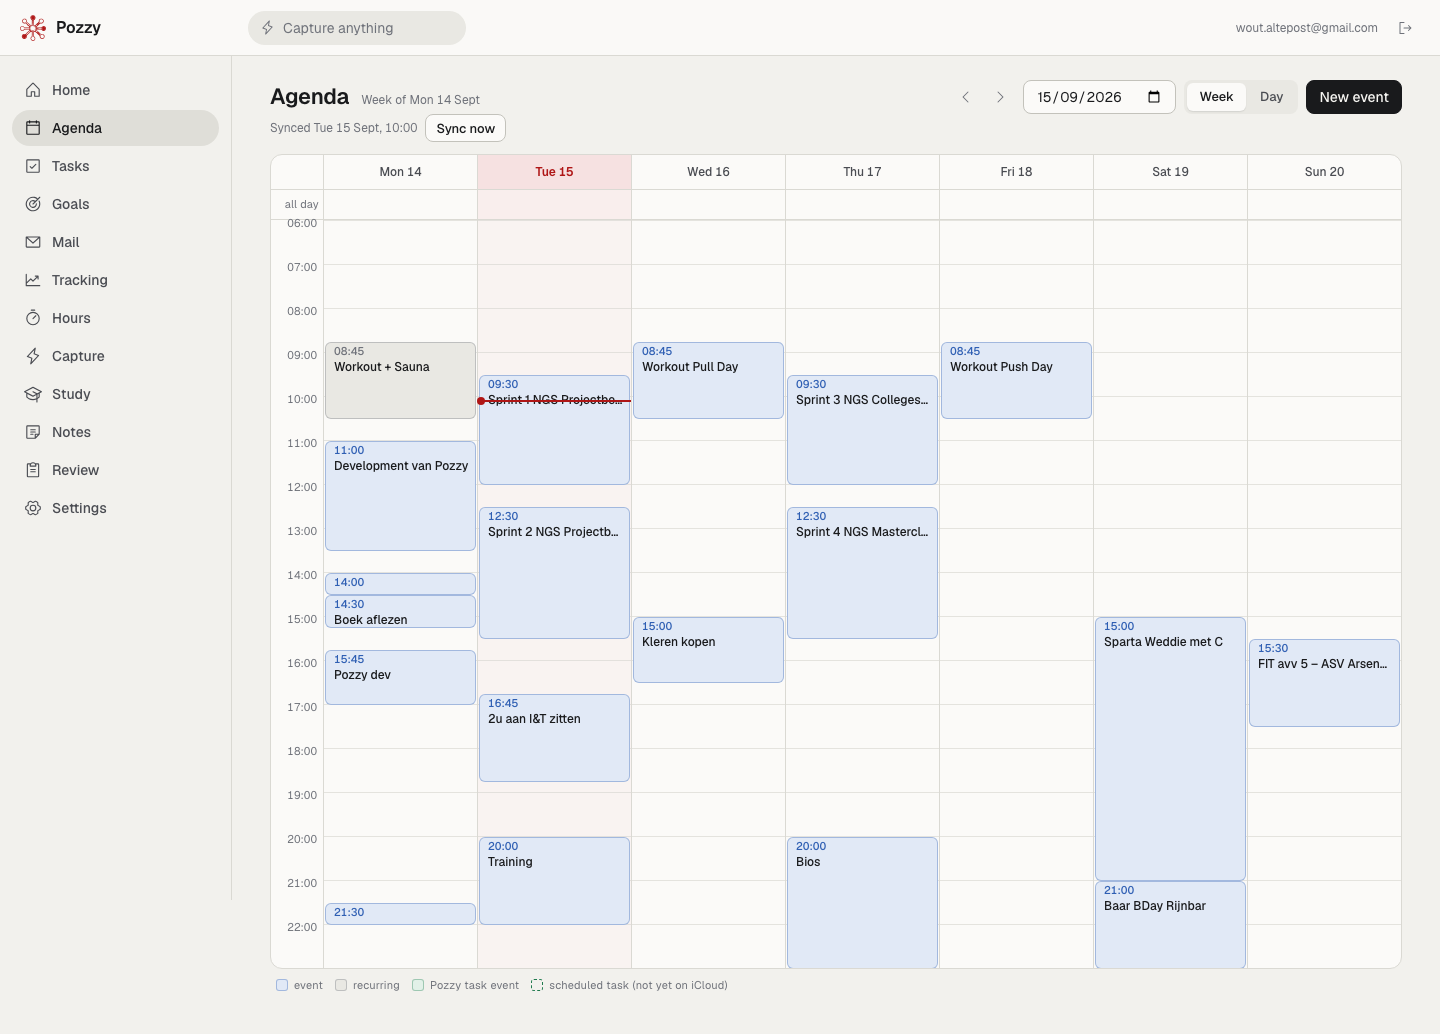
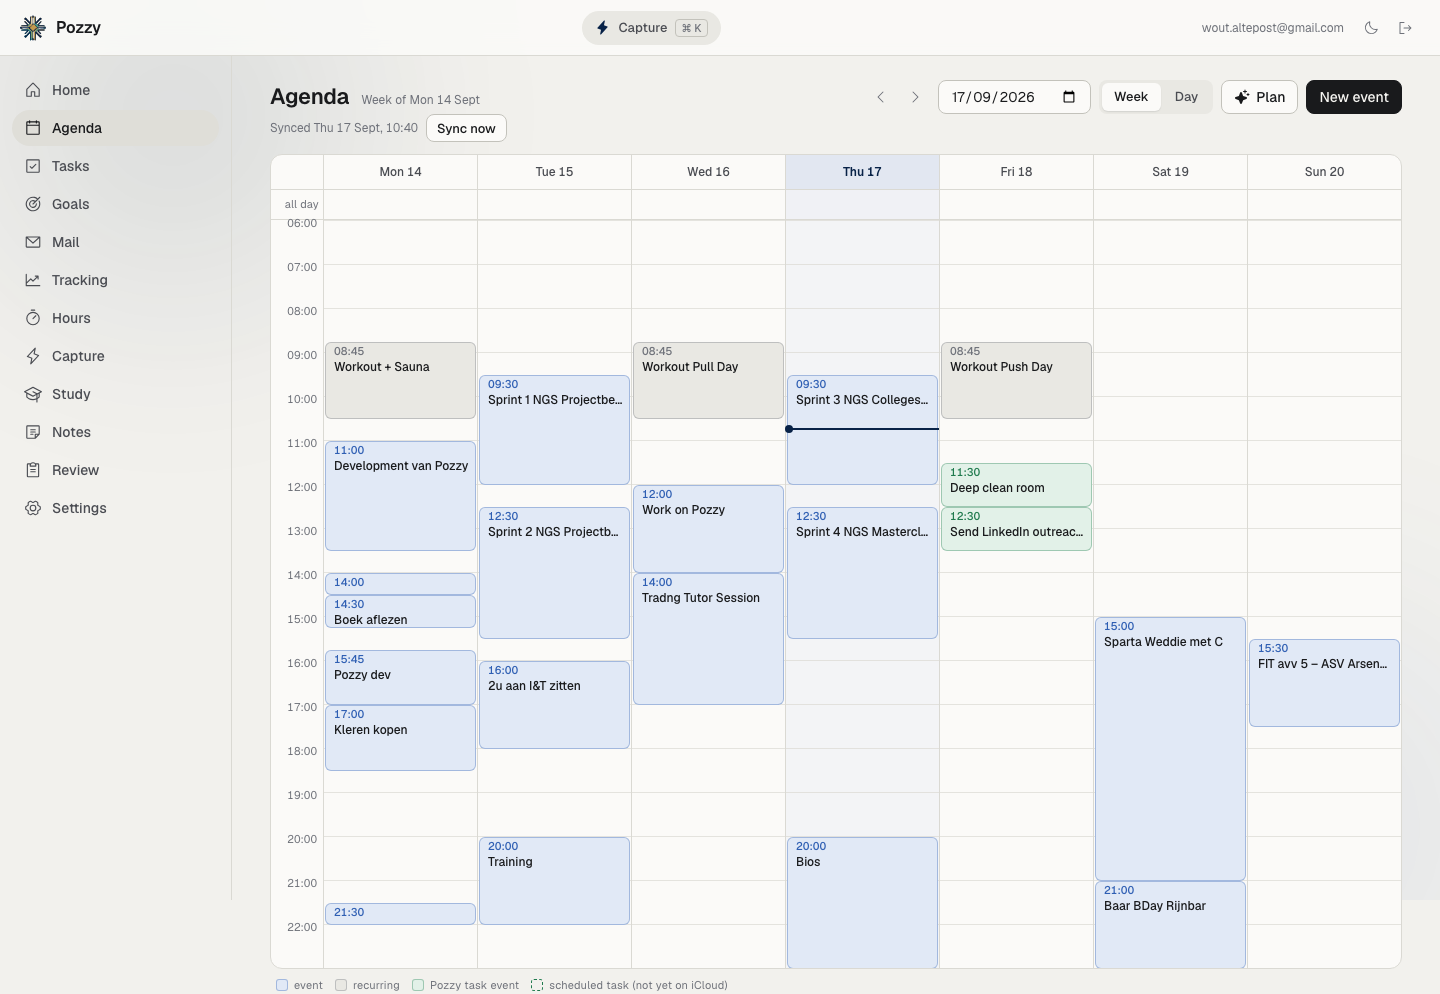
Agenda: a scheduled task shows once its linked event exists, not twice
The grid drew the dashed scheduled-task block and the solid linked event for
the same task after a planner suggestion was accepted. The desktop grid and
the phone agenda now skip a task whose linked event is on the calendar, the
same guard the home Today widget already had.

Claude-Session: https://claude.ai/code/session_01DYgp4dwYRCj1iuPHw1SNsQ

diff --git a/web/src/components/agenda/AgendaMobile.vue b/web/src/components/agenda/AgendaMobile.vue
@@ -49,8 +49,9 @@ function itemsFor(day) {
     if (to <= from) return
     out.push({ item, kind, from, to, top: ((from - H0 * 60) / 60) * HOUR_PX, height: Math.max(((to - from) / 60) * HOUR_PX - 2, 16), ...extra })
   }
+  const linked = new Set(store.events.filter((e) => e.task_id).map((e) => String(e.task_id)))
   for (const e of store.events) if (!e.all_day) push(e, kindOf(e))
-  for (const t of store.tasks) if (t.scheduled_start && t.scheduled_end) push({ ...t, start: t.scheduled_start, end: t.scheduled_end, kind: 'task' }, 'task')
+  for (const t of store.tasks) if (t.scheduled_start && t.scheduled_end && !linked.has(String(t.id))) push({ ...t, start: t.scheduled_start, end: t.scheduled_end, kind: 'task' }, 'task')
   for (const sg of props.suggestions) push(sg, 'suggest', { suggestion: sg })
   return out.sort((a, b) => a.from - b.from)
 }

diff --git a/web/src/components/agenda/AgendaGrid.vue b/web/src/components/agenda/AgendaGrid.vue
@@ -77,7 +77,11 @@ const columns = computed(() =>
       const pos = place(e, day)
       if (pos) timed.push({ ...pos, kind: 'event', item: e, key: `e-${e.id}` })
     }
+    // A scheduled task shows as a dashed block only until its linked calendar event exists;
+    // after that the event (solid, "linked") is the one thing on the grid.
+    const linked = new Set(props.events.filter((e) => e.task_id).map((e) => String(e.task_id)))
     for (const t of props.tasks) {
+      if (linked.has(String(t.id))) continue
       if (t.scheduled_start && t.scheduled_end) {
         const pos = place({ start: t.scheduled_start, end: t.scheduled_end }, day)
         if (pos) timed.push({ ...pos, kind: 'task', item: t, key: `t-${t.id}` })
